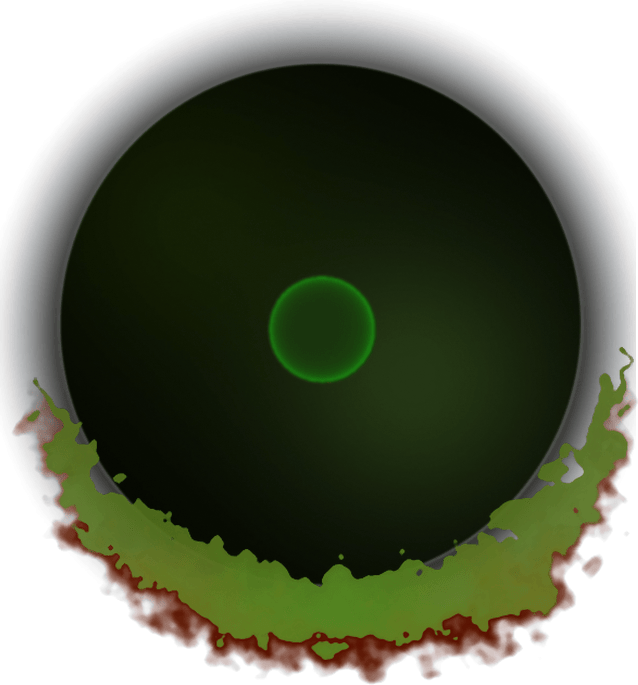
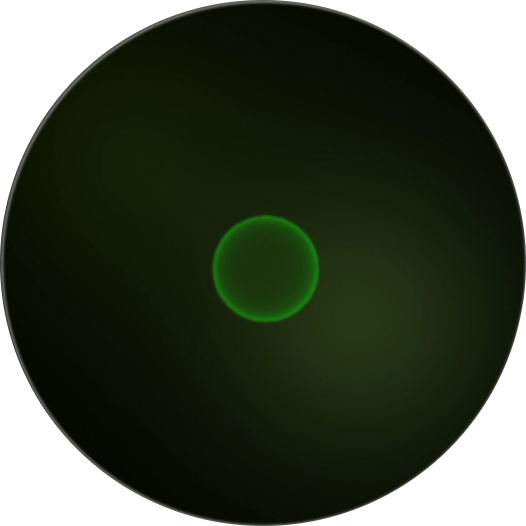
Rework: Tome picker uses a separate soft orb shadow and animated fire loops (only the shown voice plays)

diff --git a/src/components/VoiceCarousel.tsx b/src/components/VoiceCarousel.tsx
@@ -1,18 +1,37 @@
 import { useEffect, useState } from "react";
 import { Image, Pressable, StyleSheet, Text, View } from "react-native";
 import Rule from "./Rule";
+import FireLoop from "./flames/FireLoop";
+import { useFlameTint, useReduceMotion } from "./flames/useFlameMotion";
 import { useVoice, VOICES, type VoiceId } from "../context/VoiceContext";
 import { colors, fonts, inkText, useScale } from "../theme";
 
-// Orb art: the Figma Sage colour variants (Red 2231:52, Blue 2320:1208,
-// Green 2320:1458), orb plus flames, laid out like carousel 2280:286.
-// 638 x 685 px at 3x; the orb itself is 518 px wide inside that.
+// Layout in "picker px": the Figma carousel 2280:286 at 3x, 638 x 685, which is the box the
+// picker takes up (unchanged). Inside it, drawn separately so nothing is cut off:
+// - the drop shadow, one soft image for all three (840 px square, fades to zero inside it, so
+//   it spills past the box with no hard edge; the old export baked it into the 638 px canvas,
+//   which cut it off in straight lines at the sides);
+// - the orb disc, per voice (Figma Sage Red 2231:52, Blue 2320:1208, Green 2320:1458);
+// - the fire, the Sage screen's animated loops, placed where the old static fire sat.
+// All made by scripts/build-tome-orbs.py.
 const ORBS: Record<VoiceId, number> = {
   wizard: require("../../assets/images/tome/voice-orb-wizard.png"),
   plain: require("../../assets/images/tome/voice-orb-plain.png"),
   bard: require("../../assets/images/tome/voice-orb-bard.png"),
 };
-const ORB_RATIO = 685 / 638;
+const SHADOW = require("../../assets/images/tome/orb-shadow.png");
+const BOX_W = 638;
+const BOX_H = 685;
+const ORB_X = 320; // orb centre
+const ORB_Y = 323.5;
+const DISC = 526; // orb diameter, rim included
+const SHADOW_SIZE = 840;
+const SHADOW_DROP = 7.07; // the shadow sits a little below the orb
+// Fire: the loop canvas (870 x 472 units, see SageOrb) scaled so its flames span the old static
+// fire exactly (603 px wide from x 27, top at y 347).
+const FIRE_K = 603 / 836.4;
+const FIRE = { left: 27 - 20.4 * FIRE_K, top: 347 - 3.6 * FIRE_K, width: 870 * FIRE_K, height: 472 * FIRE_K };
+const FIRE_FADE_MS = 300;
 // Red arrows, Polygon 26 / 27. 106 x 123 px at 3x.
 const ARROW_LEFT = require("../../assets/images/tome/arrow-left.png");
 const ARROW_RIGHT = require("../../assets/images/tome/arrow-right.png");
@@ -25,6 +44,7 @@ export default function VoiceCarousel() {
   const { voice, setVoice, ready } = useVoice();
   const indexOf = (id: VoiceId) => Math.max(0, VOICES.findIndex((option) => option.id === id));
   const [index, setIndex] = useState(() => indexOf(voice));
+  const reduce = useReduceMotion();
 
   // Jump to the saved voice once it has been read from the device.
   useEffect(() => {
@@ -34,6 +54,8 @@ export default function VoiceCarousel() {
   }, [ready]);
 
   const shown = VOICES[index];
+  // Only the shown voice's fire loop is mounted (plus the old one during the short fade).
+  const { tint, under } = useFlameTint(shown.colour, reduce, FIRE_FADE_MS);
   const step = (delta: number) => {
     const next = (index + delta + VOICES.length) % VOICES.length;
     setIndex(next);
@@ -41,7 +63,8 @@ export default function VoiceCarousel() {
   };
 
   const orbW = s(212);
-  const orbH = orbW * ORB_RATIO;
+  const orbH = (orbW * BOX_H) / BOX_W;
+  const px = orbW / BOX_W; // dp per picker px
   const arrowW = s(34);
   const arrowH = arrowW * ARROW_RATIO;
   const savedLabel = VOICES[indexOf(voice)].label;
@@ -54,30 +77,68 @@ export default function VoiceCarousel() {
           hitSlop={14}
           accessibilityRole="button"
           accessibilityLabel="Previous voice"
-          style={({ pressed }) => pressed && styles.pressed}
+          style={({ pressed }) => [styles.arrow, pressed && styles.pressed]}
         >
           <Image source={ARROW_LEFT} style={{ width: arrowW, height: arrowH }} resizeMode="contain" />
         </Pressable>
 
         <View
-          style={{ width: orbW, height: orbH }}
+          style={{ width: orbW, height: orbH, zIndex: 0 }}
           accessible
           accessibilityRole="adjustable"
           accessibilityLabel={`Voice: ${shown.label}${shown.available ? "" : ", coming soon"}`}
           accessibilityActions={[{ name: "increment" }, { name: "decrement" }]}
           onAccessibilityAction={(event) => step(event.nativeEvent.actionName === "increment" ? 1 : -1)}
         >
-          {VOICES.map((option, i) => (
+          <View
+            style={[styles.fill, !shown.available && styles.soon]}
+            needsOffscreenAlphaCompositing={!shown.available}
+            pointerEvents="none"
+          >
             <Image
-              key={option.id}
-              source={ORBS[option.id]}
+              source={SHADOW}
               style={[
-                styles.orb,
-                { width: orbW, height: orbH, opacity: i === index ? (option.available ? 1 : 0.45) : 0 },
+                styles.abs,
+                {
+                  left: (ORB_X - SHADOW_SIZE / 2) * px,
+                  top: (ORB_Y + SHADOW_DROP - SHADOW_SIZE / 2) * px,
+                  width: SHADOW_SIZE * px,
+                  height: SHADOW_SIZE * px,
+                },
               ]}
-              resizeMode="contain"
             />
-          ))}
+            {VOICES.map((option, i) => (
+              <Image
+                key={option.id}
+                source={ORBS[option.id]}
+                style={[
+                  styles.abs,
+                  {
+                    left: (ORB_X - DISC / 2) * px,
+                    top: (ORB_Y - DISC / 2) * px,
+                    width: DISC * px,
+                    height: DISC * px,
+                    opacity: i === index ? 1 : 0,
+                  },
+                ]}
+              />
+            ))}
+            <View
+              style={[
+                styles.abs,
+                { left: FIRE.left * px, top: FIRE.top * px, width: FIRE.width * px, height: FIRE.height * px },
+              ]}
+            >
+              <FireLoop
+                width={FIRE.width * px}
+                height={FIRE.height * px}
+                colour={shown.colour}
+                under={under}
+                tint={tint}
+                still={reduce}
+              />
+            </View>
+          </View>
         </View>
 
         <Pressable
@@ -85,7 +146,7 @@ export default function VoiceCarousel() {
           hitSlop={14}
           accessibilityRole="button"
           accessibilityLabel="Next voice"
-          style={({ pressed }) => pressed && styles.pressed}
+          style={({ pressed }) => [styles.arrow, pressed && styles.pressed]}
         >
           <Image source={ARROW_RIGHT} style={{ width: arrowW, height: arrowH }} resizeMode="contain" />
         </Pressable>
@@ -109,7 +170,10 @@ export default function VoiceCarousel() {
 const styles = StyleSheet.create({
   wrap: { alignItems: "center" },
   row: { flexDirection: "row", alignItems: "center", justifyContent: "space-between", alignSelf: "stretch" },
-  orb: { position: "absolute", top: 0, left: 0 },
+  fill: { position: "absolute", top: 0, left: 0, right: 0, bottom: 0, overflow: "visible" },
+  abs: { position: "absolute" },
+  soon: { opacity: 0.45 },
+  arrow: { zIndex: 1 },
   pressed: { opacity: 0.6 },
   nameBox: { alignItems: "center" },
   name: { fontFamily: fonts.heading, includeFontPadding: false, ...inkText.heading },

diff --git a/src/lib/preload.ts b/src/lib/preload.ts
@@ -69,6 +69,7 @@ const PAGES = [
   require("../../assets/images/tome/voice-orb-wizard.png"),
   require("../../assets/images/tome/voice-orb-plain.png"),
   require("../../assets/images/tome/voice-orb-bard.png"),
+  require("../../assets/images/tome/orb-shadow.png"),
   require("../../assets/images/tome/arrow-left.png"),
   require("../../assets/images/tome/arrow-right.png"),
 ];

diff --git a/scripts/build-tome-orbs.py b/scripts/build-tome-orbs.py
@@ -1,0 +1,78 @@
+"""Tome voice-picker orbs: one disc per voice plus one shared soft drop shadow.
+
+The old picker art had the Figma drop shadow baked into a 638 px export that was narrower
+than the shadow itself, so the shadow ended in hard straight edges. Here the disc is cut
+out of the Figma orb export (art-source/tome/orb-*.png, orb on a cream backdrop) with an
+antialiased mask, and the shadow is rebuilt on a canvas wide enough for it to fade to zero.
+
+Shadow model, fitted to the Figma export (RMS error ~1%): the disc grown by 30 px, moved
+8 px down, Gaussian blur sigma 36 px, opacity 0.977 (all in orb-export pixels, R = 293).
+
+Units: "picker px" = the old 638 x 685 @3x picker canvas, which VoiceCarousel still uses
+for layout (orb centre 320, 323.5). Usage: python scripts/build-tome-orbs.py
+Needs numpy, Pillow, opencv-python-headless and imagequant (all free, pip).
+"""
+from pathlib import Path
+import cv2
+import imagequant
+import numpy as np
+from PIL import Image
+
+HERE = Path(__file__).resolve().parent.parent
+ART = HERE / "art-source/tome"
+OUT = HERE / "assets/images/tome"
+SRC = {"wizard": "orb-red.png", "plain": "orb-blue.png", "bard": "orb-green.png"}
+
+CX, CY = 362.0, 412.0  # orb centre in the export
+RIM = 297.5  # outer edge of the rim stroke in the export
+SCALE = 0.884  # export px -> picker px (the old composite used this)
+DISC = 2 * round(RIM * SCALE)  # 526 picker px
+
+# shadow, picker px
+R_IN = 293 * SCALE
+SPREAD, OFFSET, SIGMA, OPACITY = 30 * SCALE, 8 * SCALE, 36 * SCALE, 0.977
+SHADOW = 840  # canvas side, picker px (fades below 1/255 well inside it)
+SHADOW_DOWN = 4  # the shadow is smooth, so it ships at 1/4 resolution and is stretched
+
+
+def disc(name: str) -> Image.Image:
+    src = Image.open(ART / SRC[name]).convert("RGB")
+    s = RIM * 2
+    crop = src.crop((CX - RIM, CY - RIM, CX + RIM, CY + RIM)).resize((DISC, DISC), Image.LANCZOS, box=(0, 0, s, s))
+    yy, xx = np.mgrid[0:DISC, 0:DISC] + 0.5
+    d = np.hypot(xx - DISC / 2, yy - DISC / 2)
+    a = np.clip(DISC / 2 - d + 0.5, 0, 1)  # 1 px antialiased edge
+    rgba = np.dstack([np.asarray(crop), (a * 255).round().astype(np.uint8)])
+    return Image.fromarray(rgba, "RGBA")
+
+
+def shadow() -> Image.Image:
+    up = 4  # supersample the disc edge
+    can = np.zeros((SHADOW, SHADOW), np.float32)
+    c = SHADOW / 2
+    cv2.circle(can, (round(c * up * 4), round(c * up * 4)), round((R_IN + SPREAD) * up * 4), 1.0, -1, cv2.LINE_AA, 4)
+    a = OPACITY * cv2.GaussianBlur(can, (0, 0), SIGMA)
+    n = SHADOW // SHADOW_DOWN
+    a = cv2.resize(a, (n, n), interpolation=cv2.INTER_AREA)
+    rgba = np.zeros((n, n, 4), np.uint8)
+    rgba[..., 3] = (a * 255).round().clip(0, 255).astype(np.uint8)
+    return Image.fromarray(rgba, "RGBA")
+
+
+def save(img: Image.Image, path: Path) -> None:
+    q = imagequant.quantize_pil_image(img, dithering_level=1.0, max_colors=256, min_quality=90)
+    q.save(path, optimize=True)
+    try:
+        import oxipng
+        oxipng.optimize(path, level=4)
+    except ImportError:
+        pass
+    print(path.relative_to(HERE), path.stat().st_size, "B")
+
+
+if __name__ == "__main__":
+    OUT.mkdir(parents=True, exist_ok=True)
+    for name in SRC:
+        save(disc(name), OUT / f"voice-orb-{name}@3x.png")
+    save(shadow(), OUT / "orb-shadow.png")
+    print("shadow centre offset (picker px):", OFFSET)

diff --git a/README.md b/README.md
@@ -212,10 +212,10 @@ assets/
     panels/             torn-paper panels as frame (PNG, transparent) + fill (JPEG) pairs, 3x; panel-codex-cream and panel-ledger-cream (paper blended toward #FFF6E2 by scripts/build-cream-panels.py, outlines untouched) are the ones in use for the Codex book, Ledger, Tome sections and Sage box; the tan panel-codex/panel-ledger sources are in art-source/panels/
     dashboard/          skull-dragon, seal-parchment, ring-outer/inner, die-d20, gem-red/green/blue (3x PNG, transparent)
     sage/               fire-red-loop.webp, fire-blue-loop.webp, fire-green-loop.webp (animated orb fire, 72 frames at 24 fps); fire-red-1, fire-blue-1, fire-green-1 (3x PNG Reduce Motion stills; red and blue with keyframes 2..8 in art-source/sage/ are the Figma keyframes the loops are built from; green is the red fire recoloured by the build script)
-    tome/               d20-badge, voice-orb-wizard/plain/bard, arrow-left/right (3x PNG, transparent)
+    tome/               d20-badge, voice-orb-wizard/plain/bard (orb discs), orb-shadow, arrow-left/right (PNG, transparent; orbs from scripts/build-tome-orbs.py)
     ledger/             stat-header, stat-body, portrait-ink (3x PNG, transparent), portrait-placeholder (3x JPEG)
   models/               sage-avatar.glb (the 3D Sage orb)
-art-source/             source art for scripts/build-sage-fire.py and build-cream-panels.py (not bundled)
+art-source/             source art for scripts/build-sage-fire.py, build-cream-panels.py and build-tome-orbs.py (tome/: the Figma orb exports) (not bundled)
 supabase/
   config.toml           local CLI config; the sage function verifies the user's JWT
   migrations/           schema, RLS and party_sheets, in order
